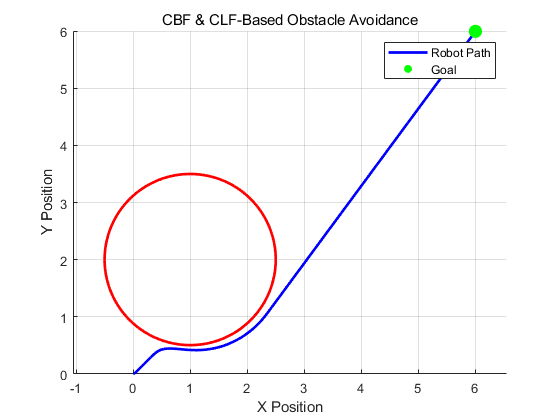
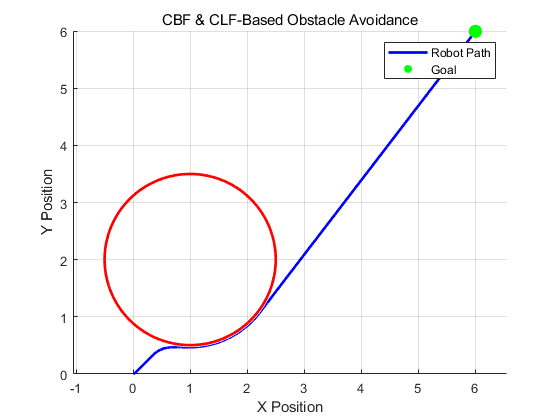
4.28.2
1. modify some error in the code.
2. decide the analysis decision in the word file.
3. upload some of the parameter tuning result

diff --git a/coursework3_student_JoshuaZhou.m b/coursework3_student_JoshuaZhou.m
@@ -34,7 +34,7 @@ v_nom = 1;                % Nominal velocity
 
 % Tuning Parameters (students should tune these three parameters)
 penalty_p = 10;           % Slack variable penalty in the QP
-gamma1 = 5;               % CLF decay rate for orientation
+gamma1 = 1;               % CLF decay rate for orientation
 k_1 = 10;                 % Tuning parameter k1 (affects the safety constraint)
 
 % Fixed Parameters (kept constant for this assignment)
@@ -65,11 +65,11 @@ for k = 1:n_steps
 
     % LgLfB terms: coefficients of control inputs a and omega
     LgB_omega = 2 * dx * v * sin(theta) - 2 * dy * v * cos(theta);
-    LgB_a     = 2 * dx * cos(theta) + 2 * dy * sin(theta);
+    LgB_a     = -2 * dx * cos(theta) - 2 * dy * sin(theta);
     
     % Final CBF constraint in the form A_cbf * [omega; a; delta] ≤ b_cbf
     A_cbf = [LgB_omega, LgB_a, 0];
-    b_cbf = (k_1+k_2) * B_dot + k_1 * k_2 * B - 2 * v *v;    
+    b_cbf = (k_1+k_2) * B_dot + k_1 * k_2 * B + 2 * v *v;    
 
     %% CLF Constraint in QP (Goal Convergence Constraint)
     % Compute distances from the goal.
